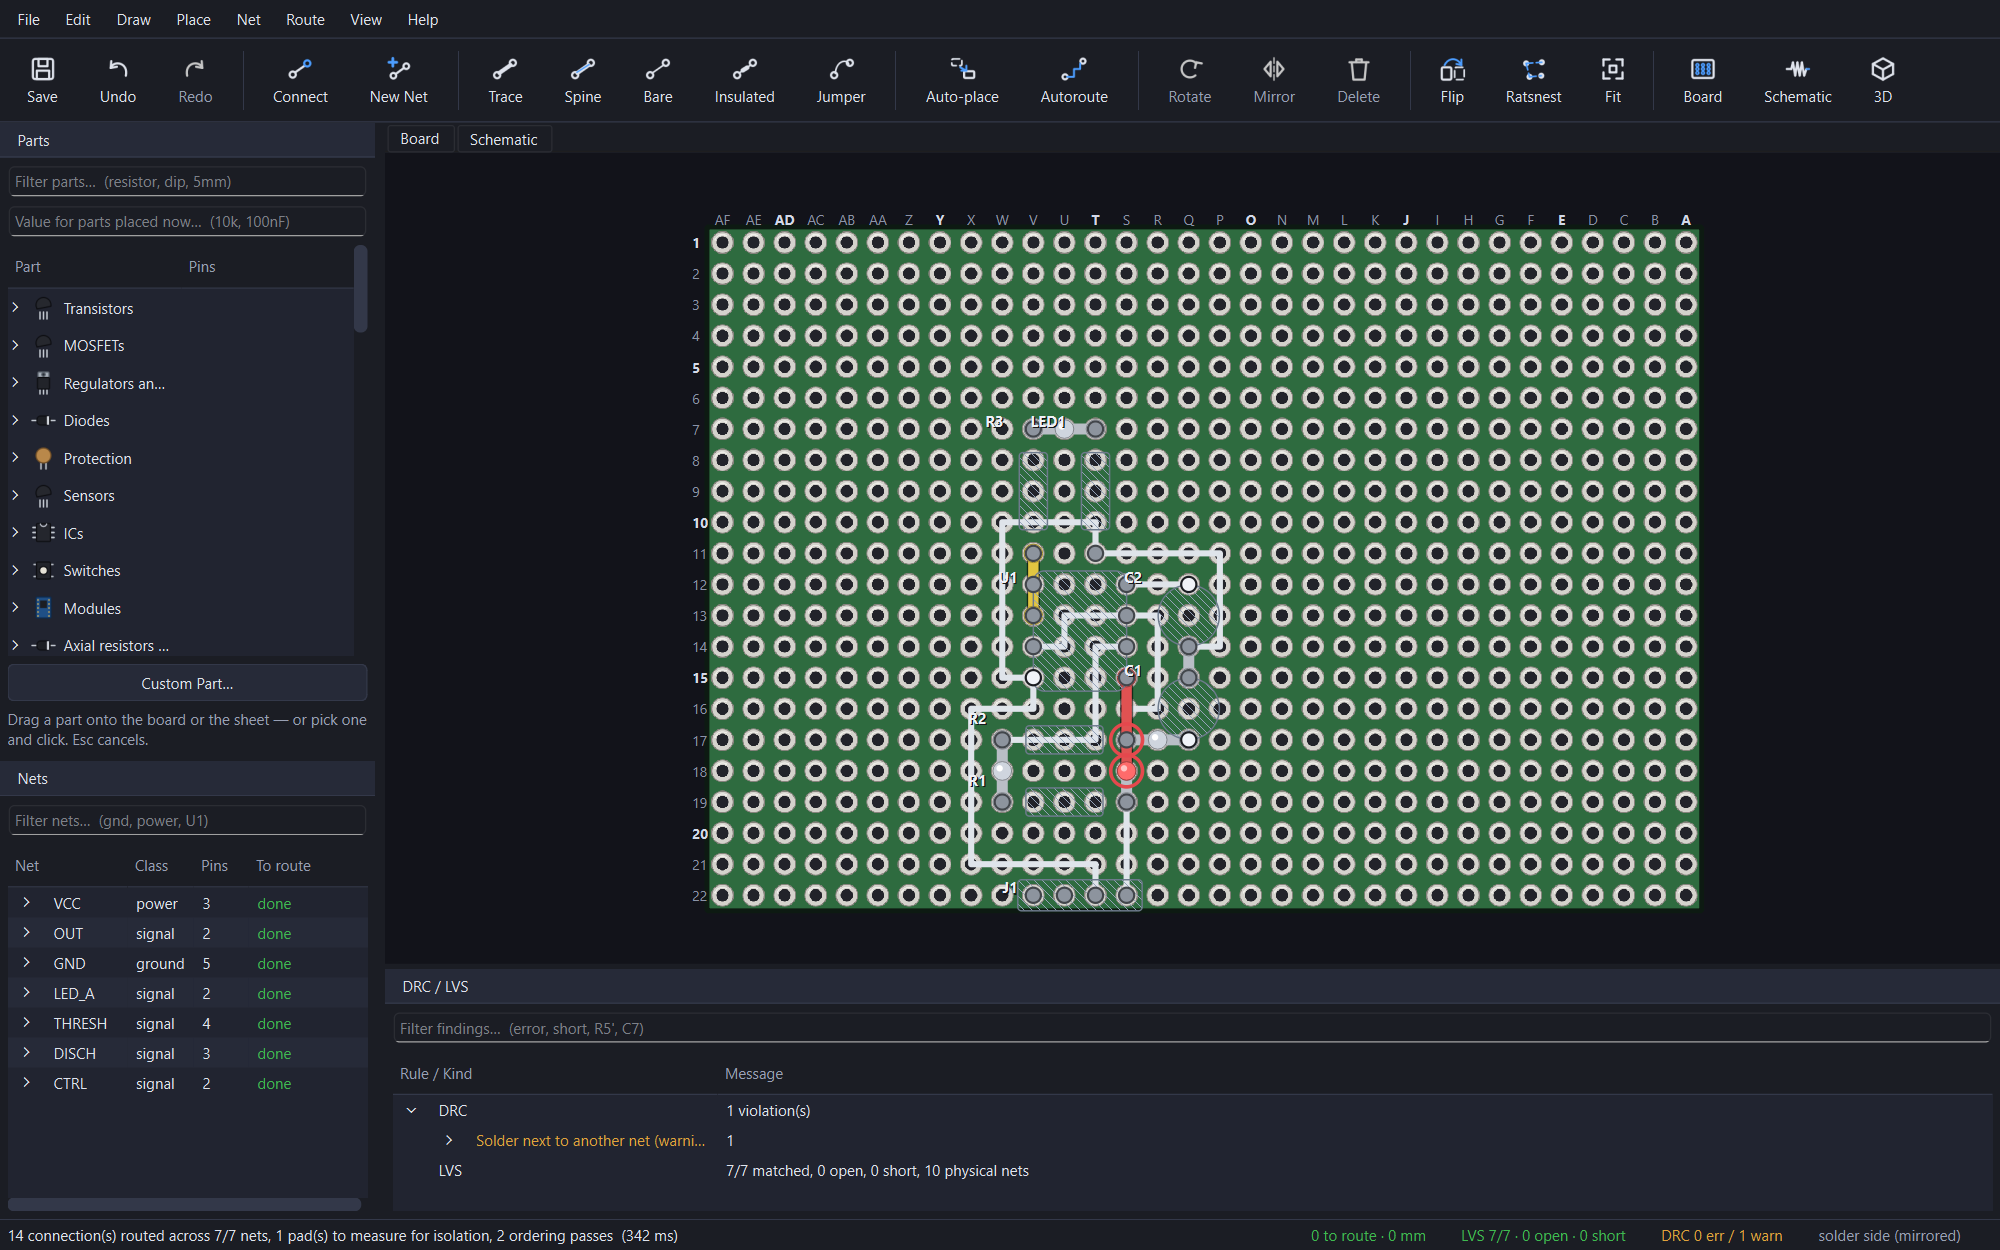
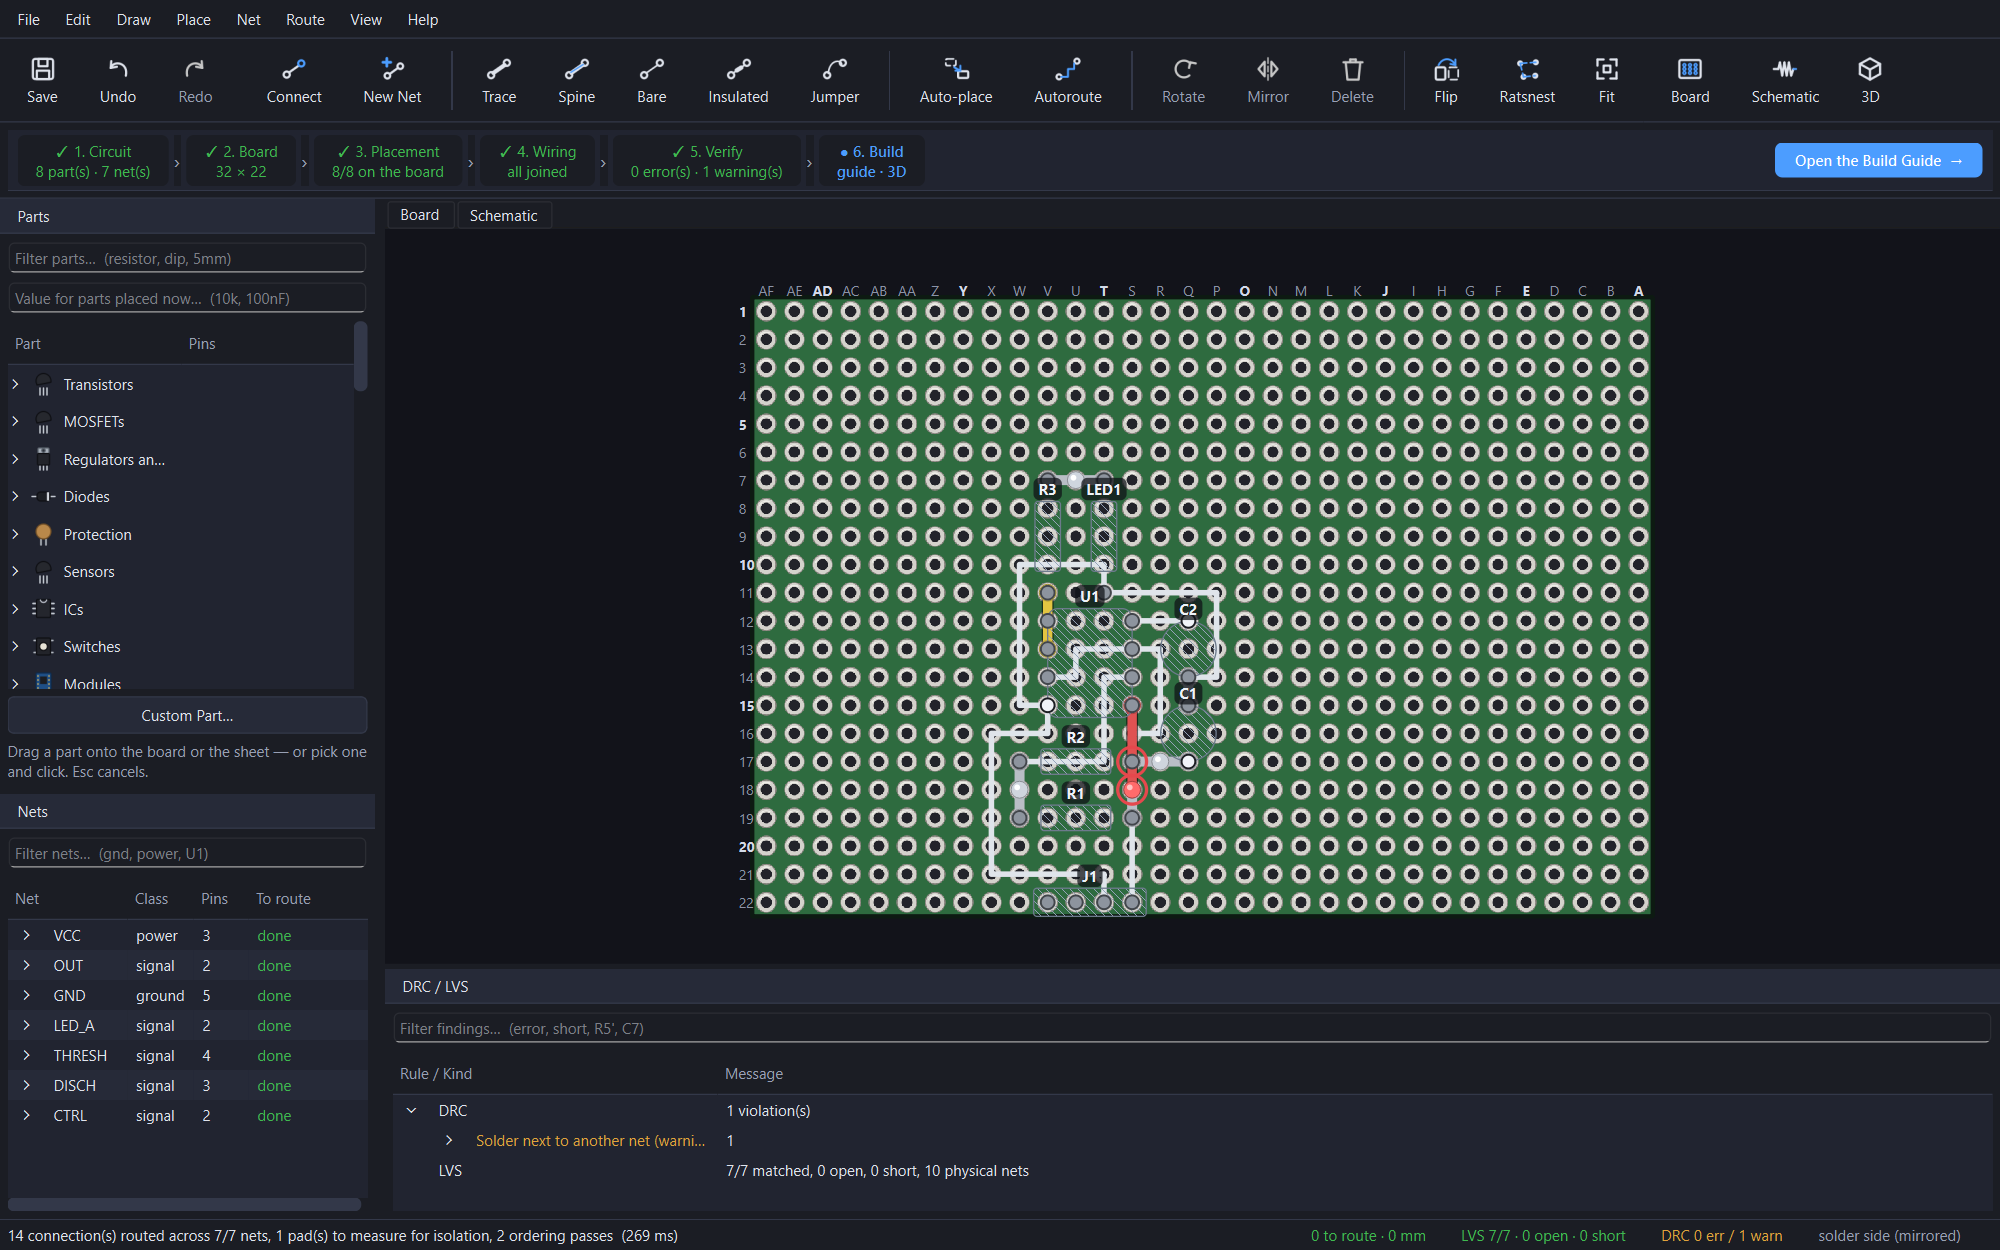
README: new pictures, and the step bar in the walkthrough
The pictures were taken before the step bar, the context toolbar and the
references on plates. Regenerated with tools/screenshots.py in English, and
both READMEs say what the bar is and that a wire can be dragged, a pin put
on GND from its menu, and the board chosen from pictures.

diff --git a/README.tr.md b/README.tr.md
@@ -240,10 +240,16 @@ ek değil, uygulamanın dayandığı bir kontrol aracı.
 
 ### Sıfırdan bir kart
 
+Araç çubuğunun altındaki şerit bu yolu adım adım yürür — **Devre, Kart, Yerleşim,
+Yönlendirme, Kontrol, Montaj** —, kartın her adımda nerede durduğunu söyler ve **Sonraki**
+düğmesi sıradaki adımı yapar. Elle yapıldığında akış şöyle:
+
 Şema panelini açın (`Ctrl+2`) ve devreyi çizin: parçaları Parçalar panelinden sayfaya
 sürükleyin, istediğiniz yere taşıyıp döndürün, **Bağla** ile pinden pine ya da çizilmiş
-bir telin üstüne tel çekin — ya da bir pini **Etiket** ile adına göre bir nete bağlayın —
-sonra **Kart Üzerine Yerleştir**.
+bir telin üstüne tel çekin (iki ucuna tıklayarak ya da sürükleyerek) — ya da bir pini
+**Etiket** ile adına göre bir nete bağlayın, ya da sağ tıklayıp GND ve +5V'ye bağlayın —
+sonra **Kart Üzerine Yerleştir**; önce hangi hazır kartın kullanılacağını, her birini
+devreniz üzerine yerleştirilmiş hâliyle göstererek sorar.
 Oradan **Yerleştir →
 Otomatik Yerleştir** (`Ctrl+Shift+A`), yönlendirme için **`Ctrl+R`**, ardından **Dosya → Montaj
 Rehberini Dışa Aktar** (`Ctrl+B`). Bu akışın hiçbir yerinde KiCad yok.

diff --git a/README.md b/README.md
@@ -238,10 +238,15 @@ checking tool the application depends on rather than an optional extra.
 
 ### A board from nothing
 
+The bar under the toolbar walks through it — **Circuit, Board, Placement, Wiring, Check,
+Build** — says where the board stands on each step, and its **Next** button does whichever
+comes next. By hand, it goes like this.
+
 Open the schematic panel (`Ctrl+2`) and draw the circuit: drag parts onto the sheet out
 of the Parts panel, move and turn them where you want them, **Wire** from pin to pin or
-onto a wire already drawn — or **Label** a pin to join it to a net by name — then **Place
-on the Board**. From there
+onto a wire already drawn (click both ends, or drag) — or **Label** a pin to join it to a
+net by name, or right-click it for GND and +5V — then **Place on the Board**, which first
+asks which stock board to use, each shown with your circuit laid out on it. From there
 **Place → Auto-place Board** (`Ctrl+Shift+A`), **`Ctrl+R`** to route, and
 **File → Export Build Guide** (`Ctrl+B`). No KiCad anywhere in that.
 
